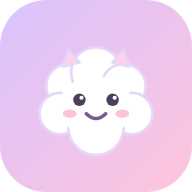
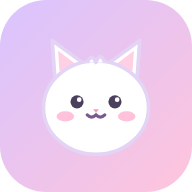
Новий маскот: круглий котик замість хмаринки
Claude-Session: https://claude.ai/code/session_01KBJPMF96dkRt1qkhybikXE

diff --git a/app.js b/app.js
@@ -12,21 +12,18 @@ const STATUS = ['Не почато', 'В процесі', 'Готово'];
 
 // ---------- маскот ----------
 function mascot(mood = 'happy', cls = '') {
-  const mouth = mood === 'sleepy'
-    ? '<path d="M44 62 q6 4 12 0" stroke="#7a5a8c" stroke-width="2.5" fill="none" stroke-linecap="round"/>'
-    : '<path d="M43 60 q7 7 14 0" stroke="#7a5a8c" stroke-width="2.5" fill="none" stroke-linecap="round"/>';
   const eyes = mood === 'sleepy'
-    ? '<path d="M34 50 q4 3 8 0M58 50 q4 3 8 0" stroke="#4a3f5c" stroke-width="2.5" fill="none" stroke-linecap="round"/>'
-    : '<circle cx="38" cy="50" r="4.5" fill="#4a3f5c"/><circle cx="62" cy="50" r="4.5" fill="#4a3f5c"/><circle cx="39.5" cy="48.5" r="1.5" fill="#fff"/><circle cx="63.5" cy="48.5" r="1.5" fill="#fff"/>';
+    ? '<path d="M32 54 q5 4 10 0M58 54 q5 4 10 0" stroke="#4a3f5c" stroke-width="2.5" fill="none" stroke-linecap="round"/>'
+    : '<circle cx="37" cy="54" r="4.5" fill="#4a3f5c"/><circle cx="63" cy="54" r="4.5" fill="#4a3f5c"/><circle cx="38.5" cy="52.5" r="1.6" fill="#fff"/><circle cx="64.5" cy="52.5" r="1.6" fill="#fff"/>';
+  const mouth = '<path d="M44 63 q3 3 6 0 q3 3 6 0" stroke="#7a5a8c" stroke-width="2.2" fill="none" stroke-linecap="round"/>';
   return `<svg class="mascot ${cls}" viewBox="0 0 100 100" aria-hidden="true">
-    <g fill="#fff" stroke="#e6d6f7" stroke-width="2">
-      <circle cx="30" cy="40" r="16"/><circle cx="50" cy="30" r="18"/><circle cx="70" cy="40" r="16"/>
-      <circle cx="24" cy="60" r="15"/><circle cx="76" cy="60" r="15"/><circle cx="50" cy="70" r="20"/>
-    </g>
-    <ellipse cx="50" cy="55" rx="27" ry="22" fill="#fff"/>
-    <path d="M26 26 l4 -12 l8 9z M74 26 l-4 -12 l-8 9z" fill="#ffd3e6" stroke="#e6d6f7" stroke-width="2" stroke-linejoin="round"/>
+    <path d="M22 40 L20 12 L42 28 Z M78 40 L80 12 L58 28 Z" fill="#fff" stroke="#e3d3f5" stroke-width="2.5" stroke-linejoin="round"/>
+    <path d="M25 33 L24 19 L36 28 Z M75 33 L76 19 L64 28 Z" fill="#ffcfe3"/>
+    <ellipse cx="50" cy="58" rx="36" ry="32" fill="#fff" stroke="#e3d3f5" stroke-width="2.5"/>
+    <path d="M44 27 q3 -7 6 0 q3 -8 6 0" fill="#fff" stroke="#e3d3f5" stroke-width="2.5" stroke-linejoin="round"/>
     ${eyes}
-    <ellipse cx="31" cy="60" rx="5" ry="3" fill="#ffc2da"/><ellipse cx="69" cy="60" rx="5" ry="3" fill="#ffc2da"/>
+    <ellipse cx="29" cy="64" rx="6" ry="3.5" fill="#ffc2da"/><ellipse cx="71" cy="64" rx="6" ry="3.5" fill="#ffc2da"/>
+    <path d="M48 59 h4 l-2 2.5z" fill="#f59ab9"/>
     ${mouth}
   </svg>`;
 }

diff --git a/sw.js b/sw.js
@@ -1,5 +1,5 @@
 // Кешує додаток, щоб він відкривався без інтернету. Дані завжди пробує взяти свіжі.
-const CACHE = 'study-v1';
+const CACHE = 'study-v2';
 const ASSETS = ['./', 'index.html', 'styles.css', 'app.js', 'manifest.webmanifest', 'icons/icon.svg', 'icons/icon-192.png', 'icons/icon-512.png', 'data/data.json'];
 
 self.addEventListener('install', e => {
